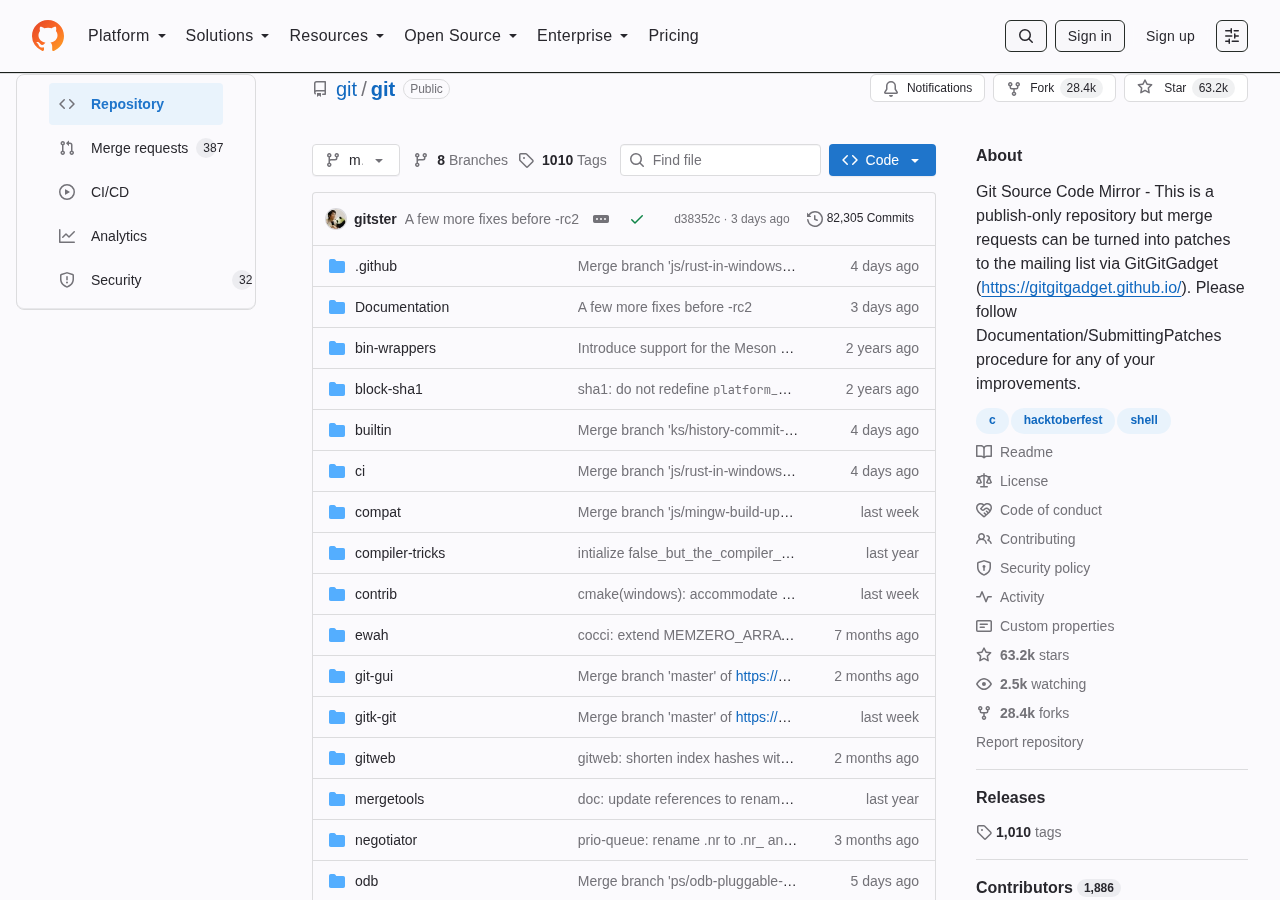
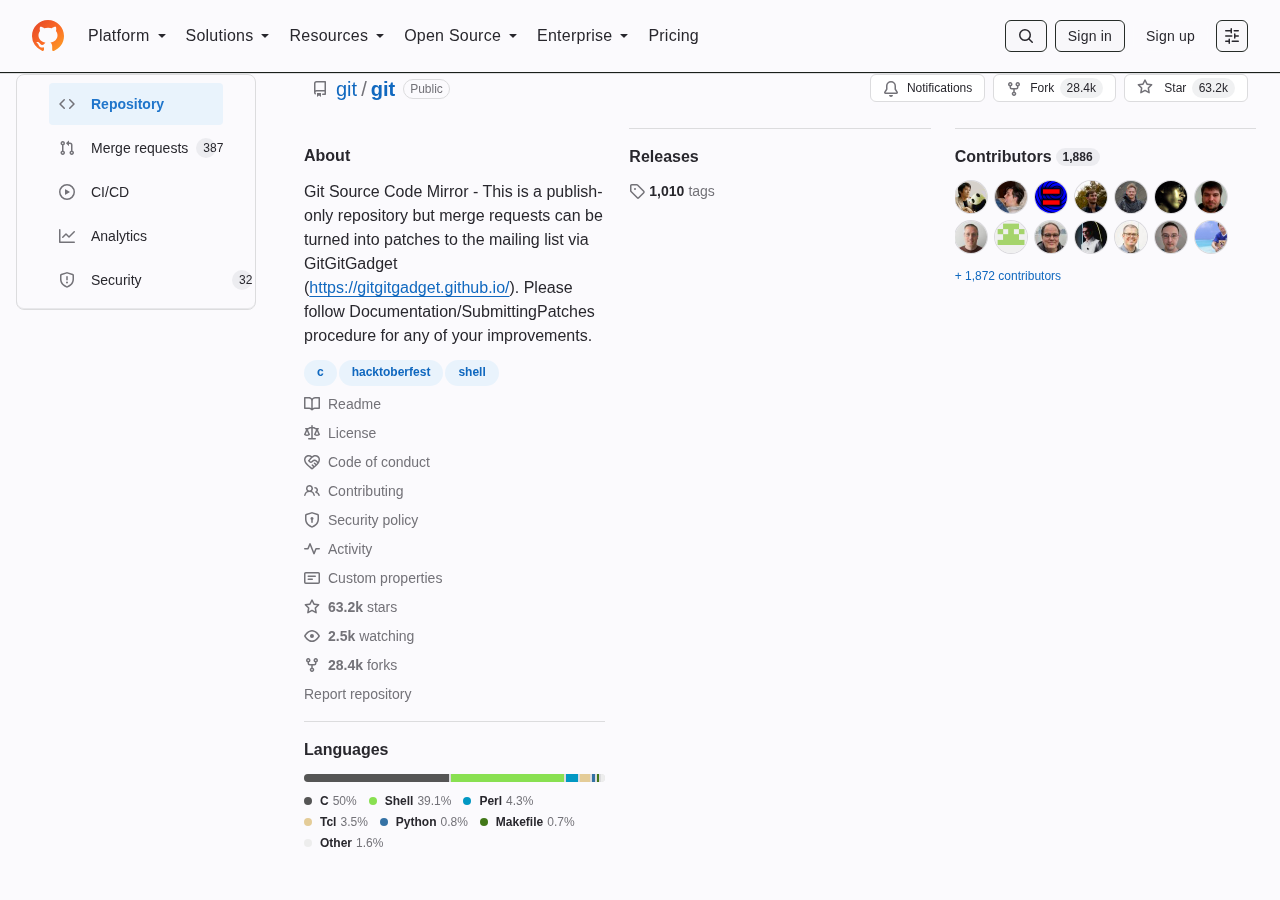
feat(ux): match where the description and metadata sit, both ways
GitHub keeps the repository description and metadata in a right-hand "About"
sidebar; GitLab shows the same in a full-width "Project information" block
above the content. Each skin now moves it to match the product being imitated:

- G→L: GitHub's About sidebar becomes a full-width block above the content.
  GitHub's PageLayout is flex, so its content is made a column and the sidebar
  pane ordered first; the sections flow into columns to stay compact. The
  selectors match on the stable class prefix, since GitHub hashes the suffix.
- L→G: GitLab's "Project information" block becomes a right column beside the
  file list, the way GitHub's About reads.

Regenerates the published preview images; README / CONTRIBUTING / UX-PARITY
updated. 103 unit tests pass; web-ext lint clean.

diff --git a/src/themes/github-as-gitlab.css b/src/themes/github-as-gitlab.css
@@ -338,3 +338,40 @@ html.gs-theme-gitlab :is(.Button--primary, .btn-primary) {
 html.gs-theme-gitlab :is(.Button--primary, .btn-primary):hover {
   background-color: var(--gs-accent-hover) !important;
 }
+
+/* GitHub keeps the repository description and metadata in a right-hand "About"
+   sidebar; GitLab shows the same information in a full-width "Project
+   information" block above the content. On the GitLab skin the sidebar moves to
+   the top, so the two products read the same. GitHub's PageLayout is flex-based
+   with the sidebar in a row-reversed pane; the class suffixes are hashed, so the
+   selectors match on the stable prefix. */
+html.gs-theme-gitlab
+  [class*="PageLayoutContent-"]:has(
+    > [class*="PaneWrapper-"] [class*="CodeViewSidebar-"]
+  ) {
+  flex-direction: column !important;
+}
+
+html.gs-theme-gitlab
+  [class*="PaneWrapper-"]:has([class*="CodeViewSidebar-"]) {
+  order: -1 !important;
+  flex: 0 0 auto !important;
+  width: 100% !important;
+  max-width: none !important;
+  padding-right: 0 !important;
+}
+
+html.gs-theme-gitlab
+  [class*="PaneWrapper-"]:has([class*="CodeViewSidebar-"])
+  > * {
+  width: 100% !important;
+  max-width: none !important;
+}
+
+html.gs-theme-gitlab [class*="CodeViewSidebar-"] {
+  width: 100% !important;
+  /* Flow the sections into columns so the block stays compact, the way GitLab's
+     project information reads, instead of a tall stack. */
+  grid-template-columns: repeat(auto-fit, minmax(300px, 1fr)) !important;
+  column-gap: 24px !important;
+}

diff --git a/src/themes/gitlab-as-github.css b/src/themes/gitlab-as-github.css
@@ -342,3 +342,31 @@ html.gs-theme-github :is(.gl-table, .table) thead th {
   background-color: var(--gs-canvas-subtle) !important;
   color: var(--gs-fg) !important;
 }
+
+/* GitLab shows the description and metadata in a full-width "Project
+   information" block above the content; GitHub shows the same in a right-hand
+   "About" sidebar. On the GitHub skin the block becomes a right column beside
+   the file list, so the two products read the same. */
+html.gs-theme-github .project-page-layout:has(.project-page-sidebar-block) {
+  display: flex !important;
+  flex-direction: row !important;
+  align-items: flex-start !important;
+  gap: 24px !important;
+}
+
+html.gs-theme-github
+  .project-page-layout:has(.project-page-sidebar-block)
+  > .project-page-layout-sidebar {
+  order: 2 !important;
+  flex: 0 0 296px !important;
+  width: 296px !important;
+  margin-top: 0 !important;
+}
+
+html.gs-theme-github
+  .project-page-layout:has(.project-page-sidebar-block)
+  > .project-page-layout-content {
+  order: 1 !important;
+  flex: 1 1 auto !important;
+  min-width: 0 !important;
+}

diff --git a/docs/UX-PARITY.md b/docs/UX-PARITY.md
@@ -25,6 +25,7 @@ is the map and the scorecard.
 | Nav labels — `NAV` | ✅ 5 | ✅ 5 | `lib/ux.js` |
 | Nav reorder — `NAV_RULES` | ✅ 1 rule | ✅ 1 rule | `lib/ux.js` |
 | Nav orientation | ✅ | ✅ | `themes/ux-nav.css` |
+| Project metadata placement | ✅ | ✅ | `themes/*.css` |
 | References — `refMarker` | ✅ | ✅ | `lib/ux.js` |
 | Shortcuts — `SHORTCUTS` | ✅ 3 | ⚠ 2 of 3 | `lib/ux.js` |
 | "Open on the other host" | ✅ | ✅ | `lib/ux.js` + popup |
@@ -125,6 +126,19 @@ product it imitates does.
 GitLab's strip is taller than GitHub's single-row top bar because its navigation
 is grouped; the groups keep GitLab's structure and simply wrap horizontally
 rather than being flattened.
+
+## Description & metadata
+
+GitHub keeps the repository description and metadata in a right-hand "About"
+sidebar; GitLab shows the same information in a full-width "Project information"
+block above the content. Each skin moves it to match the product being imitated:
+
+- **G→L** — GitHub's About sidebar becomes a full-width block above the content
+  (GitHub's `PageLayout` is flex, so its content is made a column and the
+  sidebar pane ordered first), with its sections flowed into columns to stay
+  compact.
+- **L→G** — GitLab's "Project information" block becomes a right column beside
+  the file list, the way GitHub's About reads.
 
 Profile pages get the same treatment. GitLab's profile navigation is a
 `.super-sidebar` group, so L→G turns it into a horizontal strip like any other.

diff --git a/README.md b/README.md
@@ -142,6 +142,7 @@ product's *vocabulary and habits*:
 | Copy       | "Pull request(s)" ⇄ "Merge request(s)", "Insights" ⇄ "Analytics", "Actions" ⇄ "CI/CD", "Go to file" ⇄ "Find file", "Gists" ⇄ "Snippets", "Codespaces" ⇄ "Workspaces" |
 | Navigation | repo tabs are relabelled ("Code" ⇄ "Repository") and reordered into the other product's order — GitLab's repository group included |
 | Orientation | GitHub's repo tabs and profile tabs become a GitLab-style left sidebar/rail, and GitLab's sidebar becomes a horizontal top strip |
+| Metadata | GitHub's right-hand "About" becomes a full-width block on top (GitLab style); GitLab's "Project information" becomes a right sidebar (GitHub style) |
 | References | a pull/merge-request link shows the other product's marker — `#42` ⇄ `!42`                                        |
 | Shortcuts  | the other product's `g`-combos work: on GitHub shown as GitLab, `g m` opens merge requests                        |
 | Other host | open the same page on the other forge, from the popup or `Alt` + `Shift` + `O`                                     |

diff --git a/CONTRIBUTING.md b/CONTRIBUTING.md
@@ -413,6 +413,10 @@ read.
   variable the token mapping cannot reach, so the primary button is painted
   directly by class (`.Button--primary`). A renamed class means the button
   reverts to GitHub's green.
+- **GitHub's `PageLayout` class suffixes are hashed** (e.g.
+  `PageLayoutContent-BneH9`), so the selectors that move the About sidebar match
+  on the stable prefix (`[class*="PageLayoutContent-"]`). A build that changes
+  the prefix breaks the metadata placement, not the whole skin.
 
 ## Style
 
